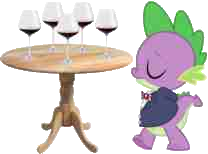
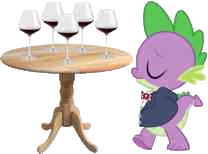
Gallery: Spike photoshop at JPEG quality 35, grunt one semitone up (-6) (T-0049, msg 600)

diff --git a/app/static/Assets/SOURCE.md b/app/static/Assets/SOURCE.md
@@ -12,15 +12,15 @@
 - `carpet_tile.png`, `gold_trim.png`, `wine_cursor.png`: drawn pixel by pixel for this
   project (T-0049).
 - `spike_table.png`: the operator's own photoshop (2026-10-02) of Spike by a table of red wine
-  glasses; background cut out, shrunk and saved through a low-quality JPEG on purpose. Spike is
+  glasses; background cut out, shrunk and saved through a quality-35 JPEG on purpose. Spike is
   a My Little Pony character (Hasbro); the table and glasses were sourced by the operator.
   Used as a joke on the operator's own site, at his choice.
 
 Sounds and music (`../sounds/`, `../music/`):
 
 - `sounds/hmmm.mp3`: Freedoom's `dsplpain.wav` (the free counterpart of DOOM's player pain
-  grunt): its first 0.6 s, pitched down seven semitones, time-stretched (ffmpeg atempo
-  0.5 x 0.5 x 0.82) so the grunt itself lasts about 2.5 s, then faded out. Freedoom is BSD-licensed; its notice is in `sounds/FREEDOOM-COPYING.txt`,
+  grunt): its first 0.6 s, pitched down six semitones, time-stretched (ffmpeg atempo
+  0.5 x 0.5 x 0.8) so the grunt itself lasts about 2.5 s, then faded out. Freedoom is BSD-licensed; its notice is in `sounds/FREEDOOM-COPYING.txt`,
   as the licence requires.
 - `music/spring.mp3` ... `winter.mp3`: Vivaldi, The Four Seasons, Op. 8 Nos. 1-4, The Modena
   Chamber Orchestra, from Musopen (musopen.org), public domain (Public Domain Mark). Tags
